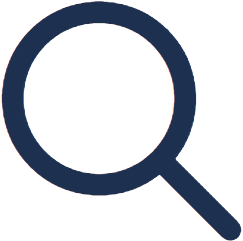
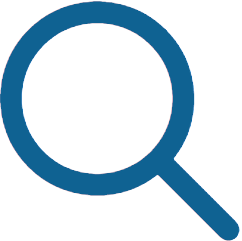
update home page

Changed region(s): [[0.0, 0.0, 1.0, 1.0]]

diff --git a/static/styleMenu.css b/static/styleMenu.css
@@ -58,7 +58,7 @@ body {
   
   .nav-center a.active,
   .nav-center a:hover {
-    background-color: #1E3050;
+    background-color: #0F6292;
     color: #fff;
     border-radius: 8px;
   }
@@ -98,7 +98,7 @@ body {
     font-size: 30px;
     line-height: 49px;
     letter-spacing: 0.05em;
-    color: #1E3050;
+    color: #0F6292;
   }
 
   .barang-container {
@@ -143,7 +143,7 @@ body {
     font-size: 22px;
     line-height: 30px;
     letter-spacing: 0.05em;
-    color: #1E3050;
+    color: #0F6292;
     float: left;
   }
   
@@ -162,7 +162,7 @@ body {
     justify-content: center; 
     align-items: center; 
     border-radius: 3px;
-    background-color: #1E3050;
+    background-color: #0F6292;
     clear: both;
     float: left;
     color: #fff;
@@ -174,12 +174,12 @@ body {
     font-weight: bold;
     margin-top: 10px;
     float: right;
-    color: #1E3050;
+    color: #0F6292;
   }
   
   .load{
     margin: 0 auto;
-    background-color: #1E3050;
+    background-color: #0F6292;
     width: 150px;
     border-radius: 8px;
     padding: 10px;
@@ -208,7 +208,8 @@ body {
     font-size: 20px;
     line-height: 49px;
     letter-spacing: 0.05em;
-    color: #0F6292;
+    color: #1E3050;
+    font-weight: bold;
   }
 
   .tentang-kami{
@@ -259,7 +260,7 @@ body {
   }
 
   footer{
-    background-color: #1E3050;
+    background-color: #0F6292;
     color: white;
   }
 
